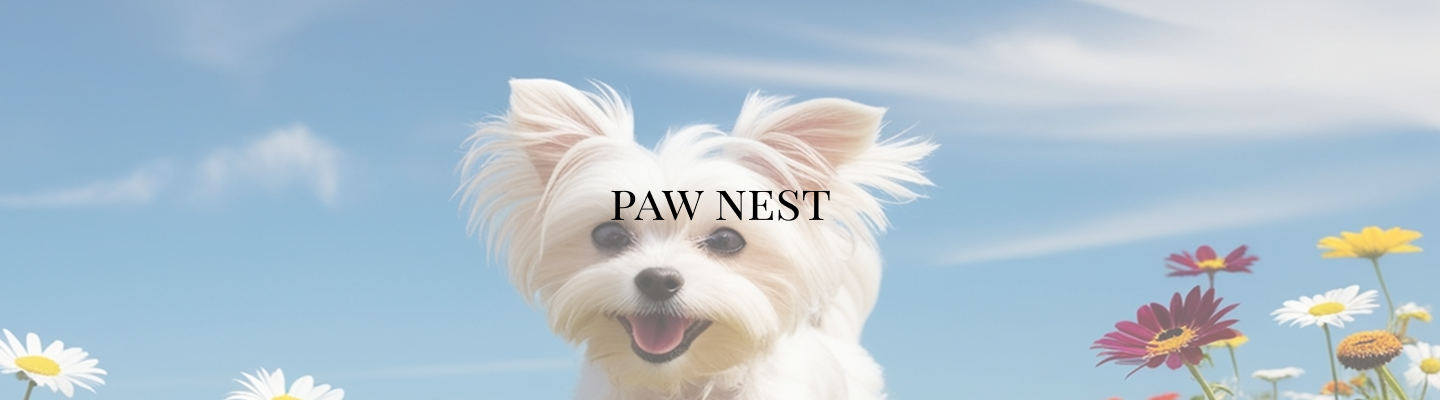
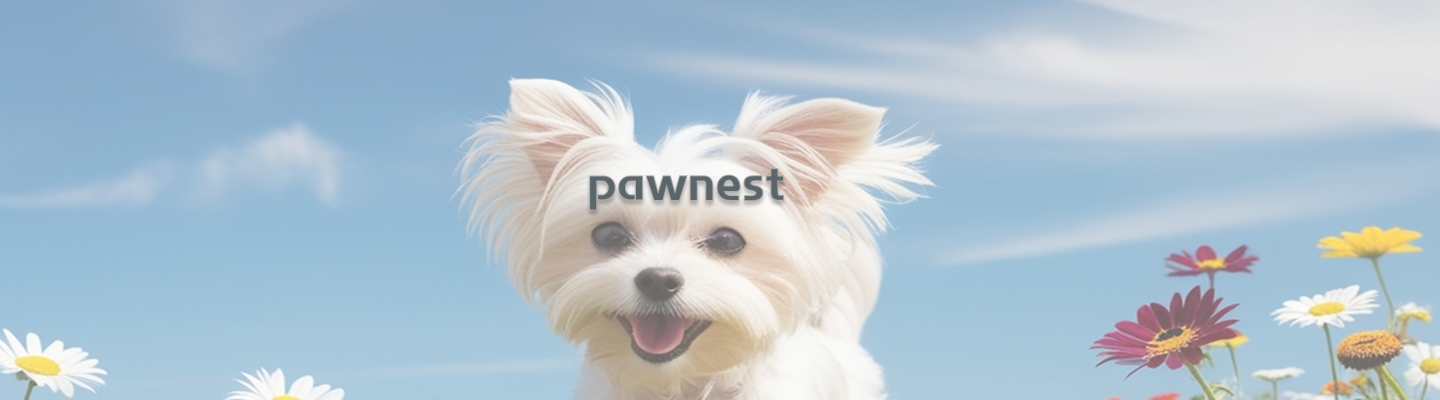
퍼블리싱 필요 이미지 추가 및 README 작성

Changed region(s): [[0.4062, 0.42, 0.5938, 0.57]]

diff --git a/client/index.html b/client/index.html
@@ -2,9 +2,9 @@
 <html lang="en">
   <head>
     <meta charset="UTF-8" />
-    <link rel="icon" type="image/svg+xml" href="/vite.svg" />
+    <link rel="icon" type="image/svg+xml" href="/favicon.ico" />
     <meta name="viewport" content="width=device-width, initial-scale=1.0" />
-    <title>Vite + React + TS</title>
+    <title>Paw Nest</title>
   </head>
   <body>
     <div id="root"></div>

diff --git a/client/README.md b/client/README.md
@@ -1,7 +1,18 @@
 # pawNest
+
 유기동물 보호소 위치제공 및 봉사활동 서비스 연계 웹앱사이트
 
 # 스펙
- react / typescript / zustand / vite / tailwind
 
- node 20 이상!
+react / typescript / zustand / vite / tailwind
+
+node 20 이상!
+
+# 폴더구조
+
+app/ // 앱 전역 설정 & 엔트리포인트
+pages/ // 라우트 단위 화면 (URL과 매칭)
+features/ // 기능(도메인)의 동사 단위 모듈 (사용자가 하는 행동!)
+entities // 기능(도메인)의 명사 단위 모듈
+widgets/ // 페이지에서 조립되는 공용 UI 단위
+shared/ // 전역 공용 리소스 & 작은 단위 UI
